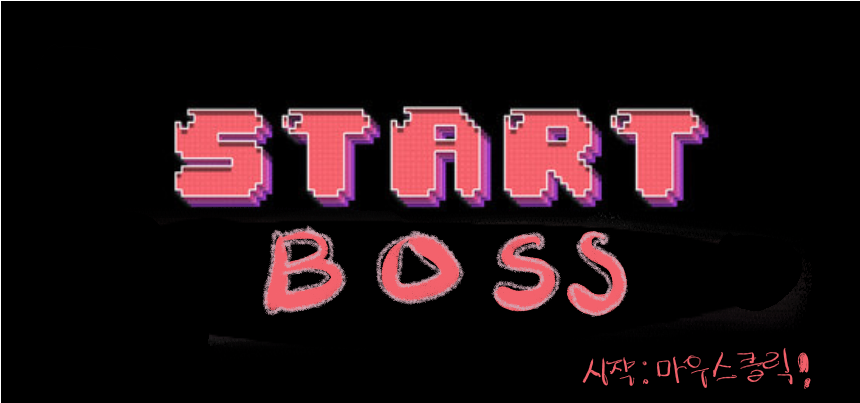
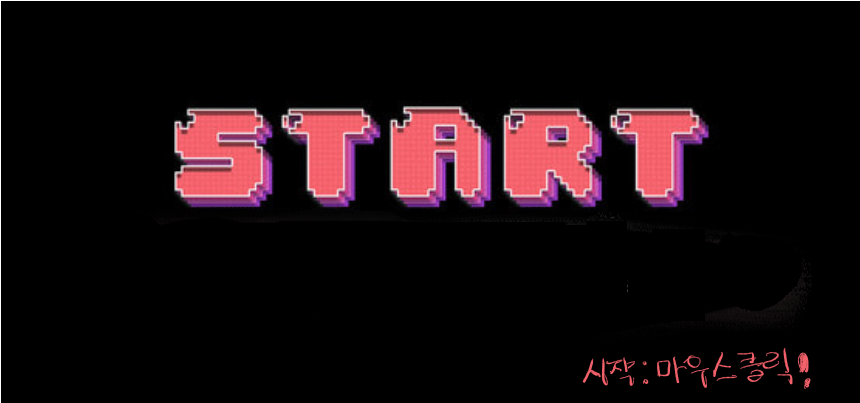
feat: 시작 전 마우스 클릭 설정

Changed region(s): [[0.3023, 0.5658, 0.5442, 0.804], [0.5744, 0.5658, 0.7558, 0.804], [0.2419, 0.8337, 0.2721, 0.8635]]

diff --git a/src/js/phase2.js b/src/js/phase2.js
@@ -21,8 +21,7 @@ $(function () {
   var paddlex;
   var paddleh;
   var paddlew;
-  //switch
-  var startgame =false;
+
 
   // 보스관련
 
@@ -69,7 +68,7 @@ $(function () {
   var bgi = new Image();
   // 시작이미지
   var startimg=new Image();
-  startimg.src='img/backimg/start.png'
+  startimg.src='img/backimg/startBoss.png'
 
 
   // 라이프
@@ -91,23 +90,6 @@ $(function () {
   var ebimages=[];
   var nbimages=[];
   var hbimages=[];
-
-var countdownElement = $('#time');
-var time = 0;
-
-// 1초마다 카운트 업데이트
-  setInterval(function() {
-  time++;
-  countdownElement.text("time: "+time);
-}, 1000);
-
-
-
-var click=false;
-document.addEventListener("click", mouseclick, false);
-function mouseclick(e){
-click=true;
-}
 
   easybosslist.forEach(function(src,index){
     var ebimg=new Image();
@@ -134,7 +116,14 @@ click=true;
     }
   });
 
+  function gamestart(){
+    window.cancelAnimationFrame(anim);
+    ctx.beginPath();
+    ctx.drawImage(startimg,0,0,WIDTH,HEIGHT);
+    ctx.closePath();
+    ctx.fill();
 
+  }
     function init() {
     //canvas 가져오기
     ctx = $("#canvas")[0].getContext("2d");
@@ -164,7 +153,6 @@ click=true;
       },
     });
   
-    ctx.drawImage(startimg, 0, 0, canvas.width, canvas.height);
     if(bosslevel==1){
       bgi.src ="img/backimg/phase1-2.png";
     }
@@ -185,30 +173,10 @@ click=true;
       hardboss_head1=true;
       bgi.src ="img/backimg/phase3-2.png";
     }
-    startgame=true;
   }
 
-  // function gamestart(){
-  //   window.cancelAnimationFrame(anim);
-  // }
 
-    
-
-  $(document).on("click", function() {
-    if(startgame&&bosslevel==1){
-      anim = requestAnimationFrame(easydraw);
-    }
-    if(startgame&&bosslevel==2){
-      anim = requestAnimationFrame(normaldraw);
-    }
-    if(startgame&&bosslevel==3){
-      anim = requestAnimationFrame(harddraw);
-    }
-    startgame=false;
-  });
-
-  
-   
+ 
 
   
 
@@ -223,9 +191,7 @@ click=true;
     rect(paddlex, HEIGHT - paddleh, paddlew, paddleh);
     drawbosshp();
 
-    if(startgame)
-    ctx.drawImage(startimg, 0, 0, canvas.width, canvas.height);
-
+    
     if(infinite)
       $("#life").text("Life: ∞");
     else
@@ -234,7 +200,6 @@ click=true;
 
     if(bosshp>0){
       easyboss(ix,iy)
-
     }
 
     x += dx;
@@ -257,6 +222,7 @@ click=true;
         }
         bosshp-=damage;
         score+=1200
+        updateMessage(1);
         if(bgm)
           bosshit.play();
         if(bosshp<=0){
@@ -286,6 +252,7 @@ click=true;
           bounce.play();
       } else {
         if (life > 1) {
+        updateMessage(0);
           life--;
           x = 500;
           y = 400;
@@ -342,8 +309,6 @@ click=true;
       bsatkimg2();
       atky2+=atkdy2;
     }
-    if(startgame)
-    ctx.drawImage(startimg, 0, 0, canvas.width, canvas.height);
 
     if(infinite)
       $("#life").text("Life: ∞");
@@ -372,6 +337,8 @@ click=true;
         }
         bosshp-=damage;
         score+=1600;
+        updateMessage(1);
+
         if(bgm)
           bosshit.play();
 
@@ -402,6 +369,8 @@ click=true;
           bounce.play();
       } else {
         if(life>1){
+        updateMessage(0);
+
           life--;
           ix = 380;
           iy = 100;
@@ -422,6 +391,8 @@ click=true;
       if(life>0){
         atkx1=Math.random()*900;
         atky1=0;
+        updateMessage(0);
+
         if(bgm)
           bomb.play();
         life--;
@@ -435,6 +406,8 @@ click=true;
       if(life>0){
         atkx2=Math.random()*900;
         atky2=0;
+        updateMessage(0);
+
         if(bgm)
           bomb.play();
         life--;
@@ -514,9 +487,7 @@ click=true;
       
       atky2+=atkdy2;
     }
-    if(startgame)
-    ctx.drawImage(startimg, 0, 0, canvas.width, canvas.height);
-    
+
     if(infinite)
       $("#life").text("Life: ∞");
     else
@@ -537,6 +508,8 @@ click=true;
         bosshp-=damage;
         headchange++;
         score+=2500;
+        updateMessage(1);
+
         if(bgm)
           bosshit.play();
         if(headchange==3&&hardboss_head1){
@@ -586,6 +559,8 @@ click=true;
           bounce.play();
       } else {
         if(life>1){
+        updateMessage(0);
+
           life--;
           score-=5000;
           x = 500;
@@ -604,6 +579,8 @@ click=true;
         score-=5000;
         atkx1=Math.random()*900;
         atky1=0;
+        updateMessage(0);
+
         if(bgm)
           bomb.play();
         life--;
@@ -617,6 +594,8 @@ click=true;
         score-=5000;
         atkx2=Math.random()*900;
         atky2=0;
+        updateMessage(0);
+
         if(bgm)
           bomb.play();
         life--;
@@ -786,9 +765,40 @@ click=true;
       window.location.href = "http://localhost:8080/src/phase1.html";
     }
   }
-  init();
-  // setTimeout(gamestart, 150);
-  init_paddle();
+  function updateMessage(idx){
+    switch (idx) {
+      case 0:
+      $("#message").text("Life -1");
+        break;
+      case 1:
+        $("#message").text("Boss " + damage + " Damaged");
+        break;
+      default:
+        break;
+    }
+  }
+  function switchGame(){
+    if(bosslevel==1){
+      anim = requestAnimationFrame(easydraw);
+    }
+    if(bosslevel==2){
+      anim = requestAnimationFrame(normaldraw);
+    }
+    if(bosslevel==3){
+      anim = requestAnimationFrame(harddraw);
+    }
+  }
+  $('#canvas').click(function() {
+    switchGame();
+    $('#canvas').unbind('click');
+  });
 
+  init();
+  switchGame();
+  setTimeout(gamestart,90);
+
+  init_paddle();
+  
+  
   $(document).mousemove(onMouseMove);
 });

diff --git a/src/js/phase1.js b/src/js/phase1.js
@@ -25,6 +25,8 @@ var difficulty_NROWS = [4, 5, 6];
 var difficulty_NCOLS = [4, 5, 6];
 
 var bgi = new Image(); // 배경 이미지
+var startimg=new Image();
+startimg.src='img/backimg/start.png';
 var backgroundImgs = [
   "img/backimg/phase1-1.jpg",
   "img/backimg/phase2-1.png",
@@ -197,8 +199,6 @@ function init_game() {
     },
   });
 
-
-  
   init_html();
   init_phase1();
 }
@@ -222,6 +222,7 @@ function updateBricks() {
       if(bgm){
         var effectAudio = new Audio("sound/game/monsterHit.mp3");
         effectAudio.play();
+        updateMessage(bricks[row][col] - 2);
       }
       
       monsterCnt--;
@@ -231,6 +232,25 @@ function updateBricks() {
     }
   }
 }
+function updateMessage(idx){
+  switch (idx) {
+    case 0:
+    $("#message").text("paddle width up");
+      break;
+    case 1:
+      $("#message").text("damage up");
+      break;
+    case 2:
+      $("#message").text("life up");
+      break;
+    case 3:
+      $("#message").text("ball size up");
+      break;
+    default:
+      break;
+  }
+}
+
 function updateItem(idx) {
   switch (idx) {
     case 1:
@@ -358,8 +378,19 @@ function init_phase1() {
   init_bricks();
   init_bgi(difficulty);
 
-  //phase1 start
   anim = requestAnimationFrame(phase1);
+
+  setTimeout(function () {
+    window.cancelAnimationFrame(anim);
+    drawImg(startimg,0,0,WIDTH,HEIGHT);
+  });
+  
+  $('#canvas').click(function(){  
+    anim = requestAnimationFrame(phase1);
+    $('#canvas').unbind('click');
+  });
+
+  //phase1 start
   $(document).mousemove(onMouseMove);
 }
 //잡몹

diff --git a/src/phase1.html b/src/phase1.html
@@ -17,7 +17,7 @@
     <nav>
       <ul>
         <li a class="main-menu" id="life">Life</li>
-        <li a class="main-menu" id="time">Time</li>
+        <li a class="main-menu" id="message"></li>
         <li a class="main-menu" id="score">Score</li>
       </ul>
     </nav>

diff --git a/src/phase2.html b/src/phase2.html
@@ -17,7 +17,7 @@
     <nav>
       <ul>
         <li a class="main-menu" id="life">Life</li>
-        <li a class="main-menu" id="time">Time</li>
+        <li a class="main-menu" id="message"></li>
         <li a class="main-menu" id="score">Score</li>
       </ul>
     </nav>
